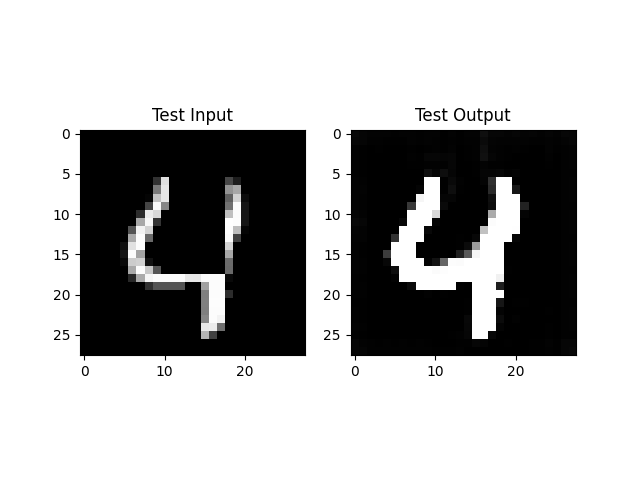
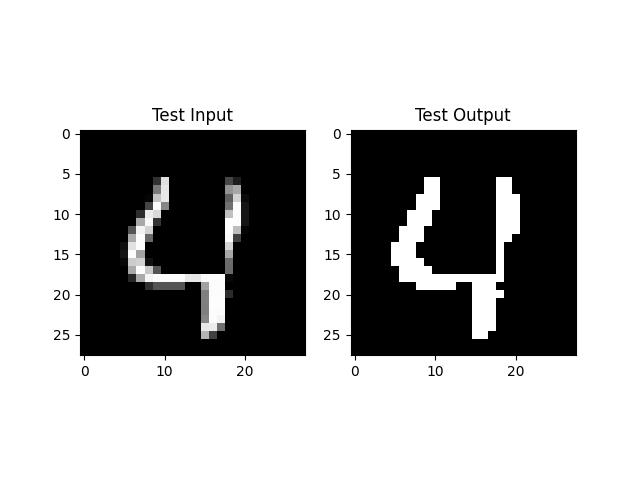
simple inpainting with high reliance on input image and edges

diff --git a/src/template_solution.py b/src/template_solution.py
@@ -95,11 +95,10 @@ def train_model(train_data_input, train_data_label, **kwargs):
     val_loader = DataLoader(val_dataset, batch_size=batch_size, shuffle=False)
     
     # Initialize model and move to device
-    model = Model().to(device)
+    model = kwargs.get('model', Model()).to(device)  # Allow custom model via kwargs
     
-    # Define loss functions
-    criterion = nn.SmoothL1Loss(beta=1.0)  # Huber loss
-    mse_criterion = nn.MSELoss()  # For tracking MSE
+    # Define loss function
+    mse_criterion = nn.MSELoss(reduction='sum')  # Sum for masked loss
     
     # Set up optimizer and scheduler
     optimizer = optim.SGD(model.parameters(), 
@@ -122,11 +121,16 @@ def train_model(train_data_input, train_data_label, **kwargs):
             inputs = inputs.to(device)
             targets = targets.to(device)
             
+            # Generate mask (masked pixels are 0)
+            mask = (inputs == 0).float().to(device)  # Shape: [batch_size, 1, 28, 28]
+            
             optimizer.zero_grad()
             
             # Forward pass
-            outputs = model(inputs)
-            loss = criterion(outputs, targets)
+            outputs = model(inputs, mask)  # Model takes inputs and mask
+            
+            # Compute loss on masked regions
+            loss = mse_criterion(outputs * mask, targets * mask) / mask.sum()
             
             # Backward pass and optimize
             loss.backward()
@@ -134,7 +138,7 @@ def train_model(train_data_input, train_data_label, **kwargs):
             
             # Calculate MSE for tracking
             with torch.no_grad():
-                train_mse += mse_criterion(outputs, targets).item() * inputs.size(0)
+                train_mse += mse_criterion(outputs * mask, targets * mask).item() / mask.sum().item() * inputs.size(0)
         
         # Calculate average training MSE
         train_mse /= len(train_dataset)
@@ -147,8 +151,14 @@ def train_model(train_data_input, train_data_label, **kwargs):
                 inputs = inputs.to(device)
                 targets = targets.to(device)
                 
-                outputs = model(inputs)
-                val_mse += mse_criterion(outputs, targets).item() * inputs.size(0)
+                # Generate mask
+                mask = (inputs == 0).float().to(device)  # Shape: [batch_size, 1, 28, 28]
+                
+                # Forward pass
+                outputs = model(inputs, mask)
+                
+                # Calculate MSE on masked regions
+                val_mse += mse_criterion(outputs * mask, targets * mask).item() / mask.sum().item() * inputs.size(0)
         
         val_mse /= len(val_dataset)
         
@@ -162,21 +172,6 @@ def train_model(train_data_input, train_data_label, **kwargs):
     
     return model
 
-
-class SpatialAttention(nn.Module):
-    def __init__(self, kernel_size=7):
-        super(SpatialAttention, self).__init__()
-
-        self.conv1 = nn.Conv2d(2, 1, kernel_size, padding=kernel_size // 2, bias=False)
-        self.sigmoid = nn.Sigmoid()
-
-    def forward(self, x):
-        avg_out = torch.mean(x, dim=1, keepdim=True)
-        max_out, _ = torch.max(x, dim=1, keepdim=True)
-        x = torch.cat([avg_out, max_out], dim=1)
-        x = self.conv1(x)
-        return self.sigmoid(x)
-    
 
 class ChannelAttention(nn.Module):
     def __init__(self, in_planes, ratio=16):
@@ -196,16 +191,30 @@ class ChannelAttention(nn.Module):
         out = avg_out + max_out
         return self.sigmoid(out)
 
+
+class SpatialAttention(nn.Module):
+    def __init__(self, kernel_size=7):
+        super(SpatialAttention, self).__init__()
+        self.conv1 = nn.Conv2d(2, 1, kernel_size, padding=kernel_size // 2, bias=False)
+        self.sigmoid = nn.Sigmoid()
+
+    def forward(self, x):
+        avg_out = torch.mean(x, dim=1, keepdim=True)
+        max_out, _ = torch.max(x, dim=1, keepdim=True)
+        x = torch.cat([avg_out, max_out], dim=1)
+        x = self.conv1(x)
+        return self.sigmoid(x)
+
 class Model(nn.Module):
     def __init__(self):
         super(Model, self).__init__()
         
         # Encoder
-        self.conv1 = nn.Sequential(
-            nn.Conv2d(1, 32, kernel_size=3, padding=1),
-            nn.ReLU(),
-            nn.MaxPool2d(kernel_size=2, stride=2)
+        self.conv1_pre_pool = nn.Sequential(
+            nn.Conv2d(2, 32, kernel_size=3, padding=1),  # Input: [image, mask]
+            nn.ReLU()
         )
+        self.pool1 = nn.MaxPool2d(kernel_size=2, stride=2)
         
         self.conv2 = nn.Sequential(
             nn.Conv2d(32, 64, kernel_size=3, padding=1),
@@ -219,43 +228,73 @@ class Model(nn.Module):
             nn.ReLU()
         )
         
-        # Fusion convolution to combine skip connection and decoder features
-        self.fusion_conv = nn.Conv2d(32 + 32, 32, kernel_size=3, padding=1)
-        self.fusion_relu = nn.ReLU()
+        # Spatial attention for first skip connection
+        self.attention1 = SpatialAttention(kernel_size=7)
+        
+        # Fusion convolution for first skip connection (14x14)
+        self.fusion_conv1 = nn.Conv2d(32 + 32, 32, kernel_size=3, padding=1)
+        self.fusion_relu1 = nn.ReLU()
         
         self.decoder_up2 = nn.Sequential(
-            nn.ConvTranspose2d(32, 1, kernel_size=2, stride=2),
-            nn.Sigmoid()
+            nn.ConvTranspose2d(32, 1, kernel_size=2, stride=2)
         )
+        
+        # Spatial attention for second skip connection
+        self.attention2 = SpatialAttention(kernel_size=7)
+        
+        # Fusion convolution for second skip connection (28x28)
+        self.fusion_conv2 = nn.Conv2d(32 + 1, 1, kernel_size=3, padding=1)
+        self.final_activation = nn.Tanh()  # Residual in [-1, 1]
 
-    def forward(self, x):
+    def forward(self, x_corr, mask):
+        # Input: x_corr [N, 1, 28, 28], mask [N, 1, 28, 28]
+        # Concatenate corrupted image and mask
+        x = torch.cat([x_corr, mask], dim=1)  # Shape: [N, 2, 28, 28]
+        
         # Encoder
-        f1 = self.conv1(x)  # Shape: [N, 32, 14, 14] (skip connection feature)
-        f2 = self.conv2(f1)  # Shape: [N, 64, 7, 7] (bottleneck)
+        f0 = self.conv1_pre_pool(x)  # Shape: [N, 32, 28, 28]
+        f1 = self.pool1(f0)  # Shape: [N, 32, 14, 14]
+        f2 = self.conv2(f1)  # Shape: [N, 64, 7, 7]
         
         # Decoder
         d1 = self.decoder_up1(f2)  # Shape: [N, 32, 14, 14]
         
-        # Concatenate skip connection (f1) with decoder features (d1)
+        # First skip connection with attention
+        attn1 = self.attention1(f1)  # Shape: [N, 1, 14, 14]
+        f1 = f1 * attn1  # Apply attention to enhance edges
         d1 = torch.cat([f1, d1], dim=1)  # Shape: [N, 32+32, 14, 14]
         
-        # Fuse concatenated features
-        d1 = self.fusion_conv(d1)  # Shape: [N, 32, 14, 14]
-        d1 = self.fusion_relu(d1)
+        # Fuse first skip connection
+        d1 = self.fusion_conv1(d1)  # Shape: [N, 32, 14, 14]
+        d1 = self.fusion_relu1(d1)
         
-        # Final upsampling
-        x = self.decoder_up2(d1)  # Shape: [N, 1, 28, 28]
+        # Second upsampling
+        d2 = self.decoder_up2(d1)  # Shape: [N, 1, 28, 28]
         
-        return x
-# Example usage:
-# model = Model()
-# optimizer = optim.Adam(model.parameters(), lr=0.1)
-# scheduler = optim.lr_scheduler.ReduceLROnPlateau(optimizer, mode='min', factor=0.1, patience=5)
-# criterion = nn.MSELoss()
+        # Second skip connection with attention
+        attn2 = self.attention2(f0)  # Shape: [N, 1, 28, 28]
+        f0 = f0 * attn2  # Apply attention to enhance edges
+        d2 = torch.cat([f0, d2], dim=1)  # Shape: [N, 32+1, 28, 28]
+        
+        # Predict residual
+        residual = self.fusion_conv2(d2)  # Shape: [N, 1, 28, 28]
+        residual = self.final_activation(residual)  # Residual in [-1, 1]
+        
+        # Combine with input
+        output = x_corr + mask * residual
+        output = torch.clamp(output, 0, 1)  # Ensure output in [0, 1]
+        
+        return output
+
+from pathlib import Path
+import numpy as np
+from tqdm import tqdm
+import matplotlib.pyplot as plt
+import torch
 
 def test_model(model, test_data_input):
     """
-    Uses your model to predict the ouputs for the test data. Saves the outputs
+    Uses your model to predict the outputs for the test data. Saves the outputs
     as a binary file. This file needs to be submitted. This function does not
     need to be modified except for setting the batch_size value. If you choose
     to modify it otherwise, please ensure that the generating and saving of the
@@ -272,15 +311,18 @@ def test_model(model, test_data_input):
         test_data_input = test_data_input.to(device)
         # Predict the output batch-wise to avoid memory issues
         test_data_output = []
-        # TODO: You can increase or decrease this batch size depending on your
-        # memory requirements of your computer / model
-        # This will not affect the performance of the model and your score
+        # Batch size for inference
         batch_size = 64
         for i in tqdm(
             range(0, test_data_input.shape[0], batch_size),
             desc="Predicting test output",
         ):
-            output = model(test_data_input[i : i + batch_size])
+            # Generate mask for the batch
+            batch_input = test_data_input[i : i + batch_size]
+            mask = (batch_input == 0).float().to(device)  # Shape: [batch_size, 1, 28, 28]
+            
+            # Forward pass with input and mask
+            output = model(batch_input, mask)
             test_data_output.append(output.cpu())
         test_data_output = torch.cat(test_data_output)
 
@@ -307,14 +349,13 @@ def test_model(model, test_data_input):
     np.savez_compressed(
         "submit_this_test_data_output.npz", data=save_data)
 
-    # You can plot the output if you want
-    # Set to False if you don't want to save the images
+    # Plot the output if desired
     if True:
         # Create the output directory if it doesn't exist
         if not Path("test_image_output").exists():
             Path("test_image_output").mkdir()
         for i in tqdm(range(20), desc="Plotting test images"):
-            # Show the training and the target image side by side
+            # Show the test input and output side by side
             plt.subplot(1, 2, 1)
             plt.title("Test Input")
             plt.imshow(test_data_input[i].squeeze().cpu().numpy(), cmap="gray")
@@ -324,7 +365,6 @@ def test_model(model, test_data_input):
 
             plt.savefig(f"test_image_output/image_{i}.png")
             plt.close()
-
 
 def main():
     seed = 0
